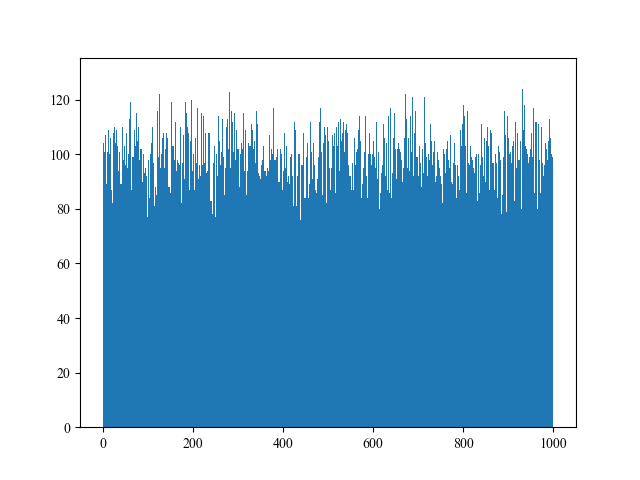
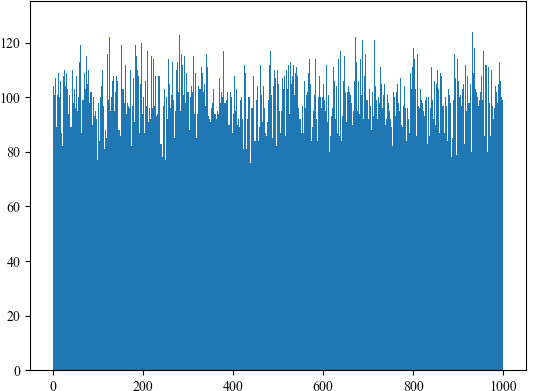
hll und so

diff --git a/content/03_VorstellungAlgorithmen.tex b/content/03_VorstellungAlgorithmen.tex
@@ -3,14 +3,15 @@ In diesem Kapitel werden approximative Algorithmen vorgestellt,
 die in der Streamverarbeitung nutzbringend eingesetzt werden können.
 
 \section{HyperLogLog}
-\todo[inline]{erklärung hyperloglog}
-hier wird der hyperloglog vorgestellt.
-\subsection{Beispiele}
-Der hyperloglog-Algorithmus wurde ursprünglich zur Aufspürung von Würmern und Computerviren entwickelt. 
-Würmer und Viren öffnen für gewöhnlich eine große Anzahl an Verbindungen durch die sie versuchen einzudringen. 
-Durch die überwachung des Datenverkehrs auf Basis von Kardinalitäten dieser Verbindungen konnten diese aufgespürt werden. \cite{flajolet2007}
 
-\todo[inline]{vielleicht anpassen}
+Der Hyperloglog-Algorithmus basiert auf dem Flajolet-Martin-Algorithmus, welcher erst von Durand und Flajolet \cite{durand2003} zum LogLog-Algorithmus und schließlich von Flajolet et al. \cite{flajolet2007} zum Hyperloglog-Algorithmus weiterentwickelt wurde.
+Der Algorithmus dient der approximativen Lösung des sog. Count-Distinct-Problems, bei dem die es die Anzahl unterschiedlicher, auftretender Elemente zu zählen gilt.
+Da die naive Lösung dieses Problems, die Speicherung in einer Menge und das Auslesen deren Länge, bei großen Datenmengen zu einem stetig steigenden Speicherplatzbedarf führt, ist eine speicherplatzeffiziente Lösung mit annähernd korrektem Ergebnis vorzuziehen.
+
+Dieses Problem wurde schon in der ersten Implementierung dieses Algorithmus gelöst und seit dem stetig weiterentwickelt.
+So konnte der Speicherbedarf bei der Weiterentwicklung des LogLog- zum HyperLogLog-Algorithmus um 64\% gesenkt werden, ohne dabei Präzision des Ergebnisses einzubüßen \cite{flajolet2007}.
+
+Der HyperLogLog-Algorithmus wird in \autoref{sec:proof-of-concept} detaillierter behandelt.
 
 \subsection{T-Digest}
 Der T-Digest ist ein von Ted Dunning entwickelter Algorithmus zum approximieren der Verteilung von Daten mit Quantilen.
@@ -24,6 +25,17 @@ Beim T-Digest wird die Verteilung der Daten auf wichtige Punkte, in deren Umgebu
 Diesen Schwerpunkten (engl. Centroids) wird ein Gewicht zugewiesen, woraus sich später eine gute Approximation der Verteilung ableiten lässt.
 Laut Dunning \cite{dunning2015} ist hierbei eine höhere Präzision vor Allem in den Randbereichen der Verteilung von besonderer Wichtigkeit.
 So sei eine Abweichung von etwa 0,5\% im Bereich des Medians in Ordnung, in Extremfällen wie dem 99,99\%-Quantil jedoch nicht mehr, da es hier darauf ankommt, einen sehr kleinen Bereich zu identifizieren.
+Die Verteilung der Gewichte auf Schwerpunkte und das Auslassen von Punkten ist in \autoref{fig:t-digest} dargestellt.
+In diesem Beispiel wurden 100\,000 zufällige Zahlen im Bereich von 1 bis 1\,000, deren Verteilung links zu sehen ist, durch den T-Digest Algorithmus auf Schwerpunkte reduziert und mit einem Gewicht versehen.
+Hierbei bleiben die Randbereiche größtenteils erhalten und bieten so die höchste Präzision, während zur Mitte hin die Cluster, welche zu einem stärker gewichteten Schwerpunkt zusammengefasst werden, größer werden.
+
+\begin{figure}[b]
+	\centering
+	\includegraphics[width=.49\linewidth]{images/t_digest_data.png}
+	\includegraphics[width=.49\linewidth]{images/t_digest_sorted.png}
+	\caption{Schwerpunktverteilung durch T-Digest}
+	\label{fig:t-digest}
+\end{figure}
 
 In einem Test, in dem eine Implementierung des T-Digest-Algorithmus mit einer einfachen, sortierten Liste verglichen wurde, hat sich die Präzision des T-Digest als sehr gut herausgestellt.
 Es wurden 100\,000 verschiedene, zufällige Zahlen von 1 bis 1\,000 in beide Objekte eingetragen, wobei anschließend je der Median, sowie das 99,99\%-Quantil geprüft wurden.
@@ -37,8 +49,6 @@ Gleiches gilt für das identifizieren eines Quantils, was in beiden Fällen in d
 
 Ein weiterer Vorteil des T-Digest-Algorithmus ist, dass die Daten mehrerer Digests einfach verbunden werden können, solange man die Gewichte der Schwerpunkte beachtet \cite{dunning2019}.
 Dies ist zum Beispiel nützlich, wenn man einen Median aus mehreren, großen Datensätzen identifizieren möchte, da es hierfür nicht einfach reicht, den Median für jeden Datensatz einzeln zu identifizieren und aus der Liste der Ergebnisse einen neuen Median zu ziehen.
-
-
 
 \subsection{StreamApprox}
 StreamApprox ist ein Sampling Algorithmus der dafür entwickelt wurde, 

diff --git a/content/SuperWichtigesMariusKapitel.tex b/content/SuperWichtigesMariusKapitel.tex
@@ -1,4 +1,5 @@
 \section{Proof of Concept}
+\label{sec:proof-of-concept}
 
 Zum Testen eines approximativen Algorithmus haben wir uns für das Zählen unterschiedlicher Elemente mithilfe des HyperLogLog-Algorithmus entschieden.
 Als Datenquelle haben wir die Änderungen von Wikipedia-Artikeln gewählt, um so zu approximieren, wie viele unterschiedliche Artikel täglich geändert werden.
@@ -49,8 +50,8 @@ Dies führt zu $m = 2^{14} = 16\,384$ benötigten Registern und somit einem maxi
 \subsection{Ergebnis der Streambeobachtung}
 
 Bei der Beobachtung ergab im Bereich bis etwa 50\,000 einzigartiger Einträge eine starke Abweichung des selbst implementierten HyperLogLog-Algorithmus (siehe \autoref{fig:hll-count}).
-So erreichte dieser die gewünschte Genauigkeit von 99\% erstmals bei 49\,265 Einträgen und hielt sie konstant erst ab 49\,932.
-Die Implementierung des HyperLogLog von Evseenko \cite{evseenko2018} überschritt die Abweichung von 1\% über den gesamten Verlauf nur 356 mal.
+So erreichte dieser die gewünschte Genauigkeit von 99\% erst bei 44\,162 einzigartigen Einträgen.
+Ab diesem Eintrag verhielten sich beide Implementierungen, die eigene und die von Evseenko \cite{evseenko2018}, sehr ähnlich, jedoch erst ab dem 398\,115. einzigartigen Eintrag vollkommen identisch.
 
 \begin{figure*}[t]
 	\centering
